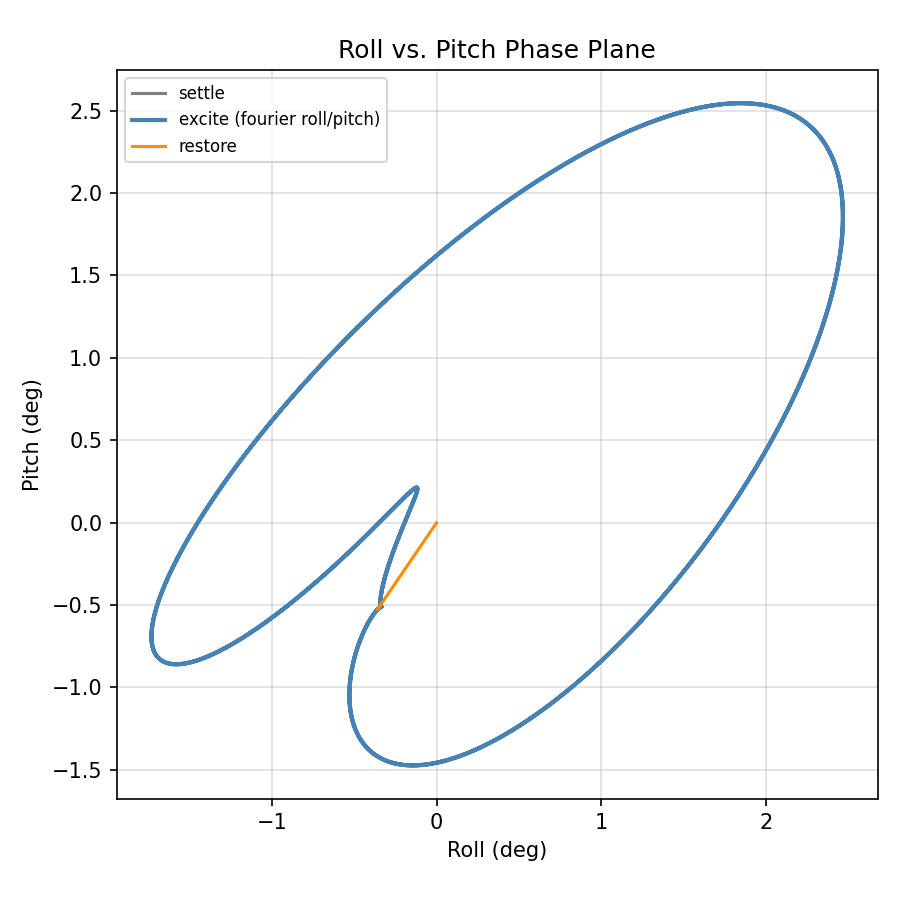
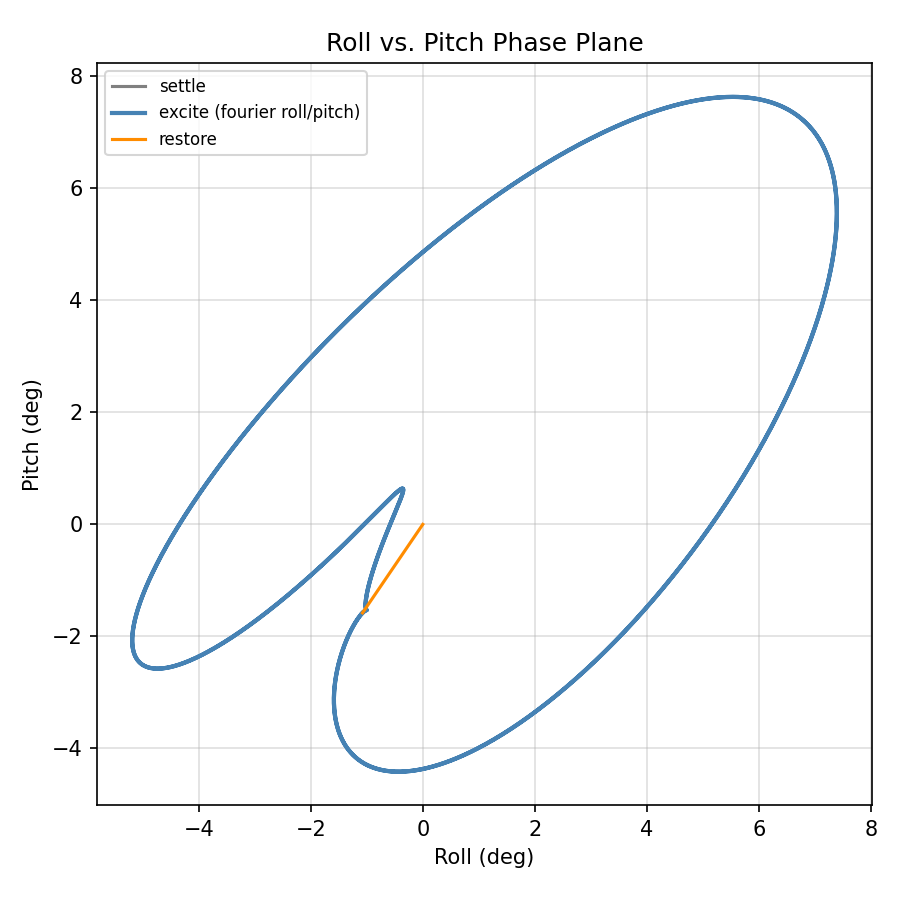
bigger pitch roll range

diff --git a/example/src/src/excitation/excitation_pitch_roll.cpp b/example/src/src/excitation/excitation_pitch_roll.cpp
@@ -28,9 +28,19 @@ static inline float deg2rad(double d) { return static_cast<float>(d * M_PI / 180
 // njoints = 2: [roll, pitch] (rad).
 static constexpr int    ORDER          = 3;
 static constexpr int    NJOINTS        = 2;
-static constexpr double AMP_LIMIT_DEG  = 10.0;  // deg, matches walk_with_sin_roll.cpp spec
+// Raw coefficient scale (excitation.cpp attenuates this by ~1/(2*omega_f*k) in
+// eval(), so the *actual* swing comes out well below PARAM_RANGE_DEG -- e.g.
+// with order=3 and duration=10s, actual swing is roughly ~25% of this value.
+// Tune from the plot: bigger PARAM_RANGE_DEG or bigger EXCITE_TIME both make
+// the actual swing bigger.
+static constexpr double PARAM_RANGE_DEG = 30.0;  // deg
 static const std::vector<double> PARAM_RANGE = {
-    AMP_LIMIT_DEG * M_PI / 180.0, AMP_LIMIT_DEG * M_PI / 180.0};  // rad; tune from the plot
+    PARAM_RANGE_DEG * M_PI / 180.0, PARAM_RANGE_DEG * M_PI / 180.0};  // rad
+// Hard safety clamp applied to the final commanded value, independent of
+// PARAM_RANGE_DEG above. Unitree Euler() spec is roll/pitch +-0.75 rad
+// (~43 deg); this stays well under that while leaving headroom above the
+// expected actual swing so the sinusoid isn't clipped into a flat top.
+static constexpr double CLAMP_LIMIT_DEG = 20.0;  // deg
 static constexpr unsigned SEED = 42;  // change for a different random "tryout"
 
 static const char *PARAMS_FILE = "excitation_pitch_roll_params.json";
@@ -67,7 +77,8 @@ private:
         j["settle_time"] = SETTLE_TIME;
         j["excite_time"] = EXCITE_TIME;
         j["restore_time"] = RESTORE_TIME;
-        j["amp_limit_deg"] = AMP_LIMIT_DEG;
+        j["param_range_deg"] = PARAM_RANGE_DEG;
+        j["clamp_limit_deg"] = CLAMP_LIMIT_DEG;
         std::ofstream out(PARAMS_FILE);
         out << j.dump(2);
         RCLCPP_INFO(get_logger(), "Wrote excitation params to %s", PARAMS_FILE);
@@ -110,8 +121,8 @@ private:
             return;
         }
 
-        roll  = clamp(roll,  deg2rad(AMP_LIMIT_DEG));
-        pitch = clamp(pitch, deg2rad(AMP_LIMIT_DEG));
+        roll  = clamp(roll,  deg2rad(CLAMP_LIMIT_DEG));
+        pitch = clamp(pitch, deg2rad(CLAMP_LIMIT_DEG));
 
         unitree_api::msg::Request req_e, req_m;
         sport_req_.Euler(req_e, static_cast<float>(roll), static_cast<float>(pitch), 0.0f);

diff --git a/plot/excitation/plot_excitation_pitch_roll.py b/plot/excitation/plot_excitation_pitch_roll.py
@@ -11,7 +11,7 @@ Usage:
     python excitation_pitch_roll.py [path/to/excitation_pitch_roll_params.json]
 
 Roll/pitch are the Euler() angles (deg) sent to the robot, clamped to
-±amp_limit_deg.
+±clamp_limit_deg.
 """
 
 import json
@@ -32,7 +32,7 @@ DT      = P["dt"]
 SETTLE_TIME    = P["settle_time"]
 EXCITE_TIME    = P["excite_time"]
 RESTORE_TIME   = P["restore_time"]
-AMP_LIMIT_DEG  = P["amp_limit_deg"]
+CLAMP_LIMIT_DEG = P["clamp_limit_deg"]
 Q0      = np.array(P["q0"])          # (2,) == [0, 0], rad
 A       = np.array(P["A"])           # (order, 2)
 B       = np.array(P["B"])           # (order, 2)
@@ -69,7 +69,7 @@ rp_end = eval_fourier(EXCITE_TIME)[0]
 restore_alpha = np.clip((t[restore_mask] - (SETTLE_TIME + EXCITE_TIME)) / RESTORE_TIME, 0.0, 1.0)
 rp[restore_mask] = rp_end[None, :] + restore_alpha[:, None] * (0.0 - rp_end[None, :])
 
-limit_rad = np.deg2rad(AMP_LIMIT_DEG)
+limit_rad = np.deg2rad(CLAMP_LIMIT_DEG)
 rp_clamped = np.clip(rp, -limit_rad, limit_rad)
 
 rp_deg = np.rad2deg(rp)
@@ -85,8 +85,8 @@ fig.suptitle("Desired Trajectory — excitation_pitch_roll", fontsize=13)
 for i, ax in enumerate(axes):
     ax.plot(t, rp_deg[:, i], color=colors[i], label="unclamped")
     ax.plot(t, rp_clamped_deg[:, i], color="tomato", linestyle="--", linewidth=0.9, label="sent to robot")
-    ax.axhline(AMP_LIMIT_DEG, color="black", linestyle=":", linewidth=0.8, label=f"spec ±{AMP_LIMIT_DEG:.1f} deg")
-    ax.axhline(-AMP_LIMIT_DEG, color="black", linestyle=":", linewidth=0.8)
+    ax.axhline(CLAMP_LIMIT_DEG, color="black", linestyle=":", linewidth=0.8, label=f"clamp ±{CLAMP_LIMIT_DEG:.1f} deg")
+    ax.axhline(-CLAMP_LIMIT_DEG, color="black", linestyle=":", linewidth=0.8)
     ax.set_xlabel("Time (s)")
     ax.set_ylabel(labels[i])
     ax.set_title(labels[i])

diff --git a/plot/excitation/gen_sample_params.py b/plot/excitation/gen_sample_params.py
@@ -84,10 +84,11 @@ if __name__ == "__main__":
     )
 
     # Matches excitation_pitch_roll.cpp
-    amp = np.deg2rad(10.0)
+    param_range_rad = np.deg2rad(30.0)
     write_params(
-        "excitation_pitch_roll_params.json", order=3, njoints=2, param_range=[amp, amp],
+        "excitation_pitch_roll_params.json", order=3, njoints=2,
+        param_range=[param_range_rad, param_range_rad],
         duration=10.0, q0=[0.0, 0.0], seed=42,
         extra={"dt": 0.002, "settle_time": 1.0, "excite_time": 10.0, "restore_time": 1.0,
-               "amp_limit_deg": 10.0},
+               "param_range_deg": 30.0, "clamp_limit_deg": 20.0},
     )

diff --git a/plot/excitation/README.md b/plot/excitation/README.md
@@ -1,0 +1,71 @@
+# Excitation Parameters
+
+Current tuning for the three `FourierExcitation`-based nodes in
+`example/src/src/excitation/`. Each node uses `order=3` Fourier harmonics and
+`seed=42` (change `SEED` in the `.cpp` for a different random "tryout" of the
+same statistical envelope).
+
+Recap of what each knob controls:
+- **`param_range`** — raw amplitude scale for the randomly drawn Fourier
+  coefficients, *before* the zero-position/velocity/acceleration constraint
+  and the `1/(2*omega_f*k)` synthesis attenuation. Not a hard bound — the
+  actual swing of `q(t)` comes out well below `param_range` (roughly ~25% of
+  it with `order=3`, `duration=10s`).
+- **`duration`** (== `EXCITE_TIME` here) — period of the fundamental
+  frequency. Longer `duration` also makes the actual swing *bigger* for the
+  same `param_range` (shrinks `omega_f`, which shrinks the attenuation
+  denominator).
+- **`q0`** — constant offset the (zero-mean) excitation oscillates around.
+- **hard clamp** — safety backstop applied to the final commanded value,
+  independent of `param_range`/`duration`, so a bad random draw can't exceed
+  hardware limits.
+
+## `excitation_height.cpp` (1D: body height offset)
+
+| Param | Value |
+|---|---|
+| `njoints` | 1 |
+| `param_range` | 0.05 m |
+| `q0` (center, `H_CENTER`) | -0.075 m |
+| `duration` / `EXCITE_TIME` | 10.0 s |
+| hard clamp | [-0.18, 0.03] m (Unitree spec) |
+| `SETTLE_TIME` / `RESTORE_TIME` | 1.0 s / 2.0 s |
+| forward walk `VX` | 0.1 m/s (during excite phase) |
+
+## `excitation_velocity.cpp` (3D: vx, vy, vyaw)
+
+| Param | Value |
+|---|---|
+| `njoints` | 3 |
+| `param_range` | vx: 0.25 m/s, vy: 0.15 m/s, vyaw: 0.4 rad/s |
+| `q0` | [0, 0, 0] |
+| `duration` / `EXCITE_TIME` | 10.0 s |
+| hard clamp | vx: ±0.4 m/s, vy: ±0.25 m/s, vyaw: ±0.8 rad/s |
+| Unitree spec (for reference) | vx: -2.5~3.8 m/s, vy: ±1.0 m/s, vyaw: ±4 rad/s — current clamp is still conservative vs. spec |
+| `SETTLE_TIME` / `RESTORE_TIME` | 1.0 s / 2.0 s |
+
+## `excitation_pitch_roll.cpp` (2D: roll, pitch)
+
+| Param | Value |
+|---|---|
+| `njoints` | 2 |
+| `param_range` (`PARAM_RANGE_DEG`) | 30° (roll and pitch) |
+| `q0` | [0, 0] |
+| `duration` / `EXCITE_TIME` | 10.0 s |
+| hard clamp (`CLAMP_LIMIT_DEG`) | ±20° |
+| Unitree spec (for reference) | roll/pitch: ±0.75 rad (≈±43°) — current clamp is still conservative vs. spec |
+| `SETTLE_TIME` / `RESTORE_TIME` | 1.0 s / 1.0 s |
+| actual observed swing (seed=42) | ~±7.5° |
+
+## Files in this folder
+
+- `plot_excitation_height.py`, `plot_excitation_velocity.py`,
+  `plot_excitation_pitch_roll.py` — reconstruct and plot the *desired*
+  trajectory from a node's `excitation_*_params.json` (no ROS2/robot needed).
+- `compare_excitation_height.py`, `compare_excitation_velocity.py`,
+  `compare_excitation_pitch_roll.py` — plot desired vs. actual from a
+  recorded `ros2 bag` (needs `rosbag2_py`/`rclpy`, see each script's
+  docstring for the exact `ros2 bag record` command).
+- `gen_sample_params.py` — dry-run helper that regenerates sample
+  `excitation_*_params.json` files (matching the `.cpp` constants above)
+  without needing to build/run the ROS2 nodes.
